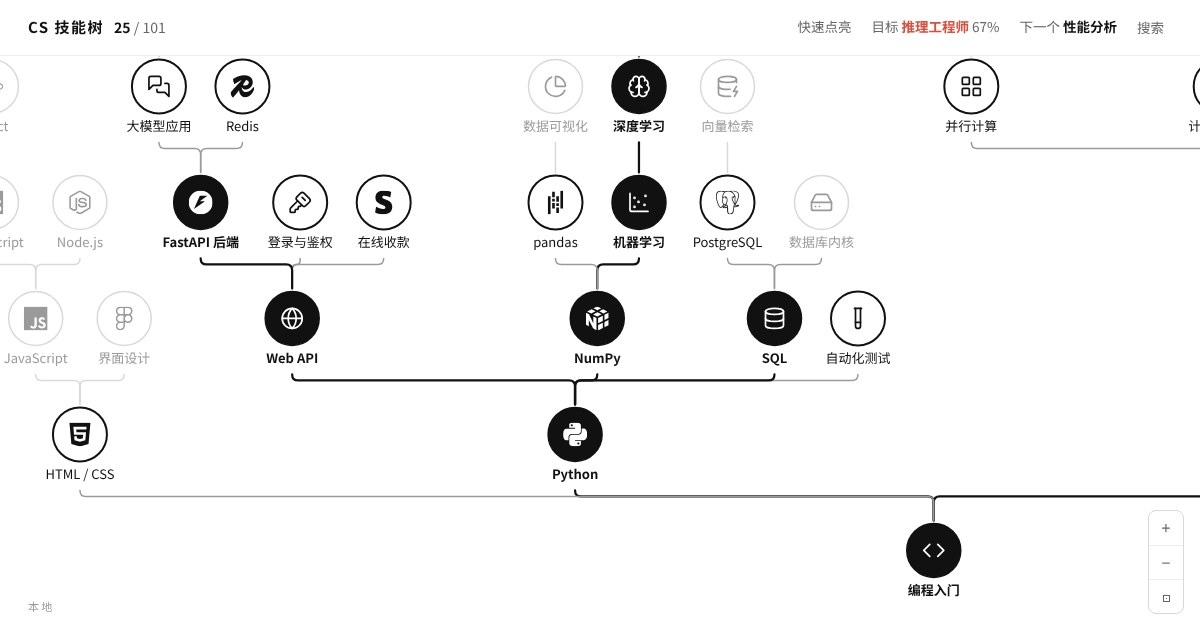
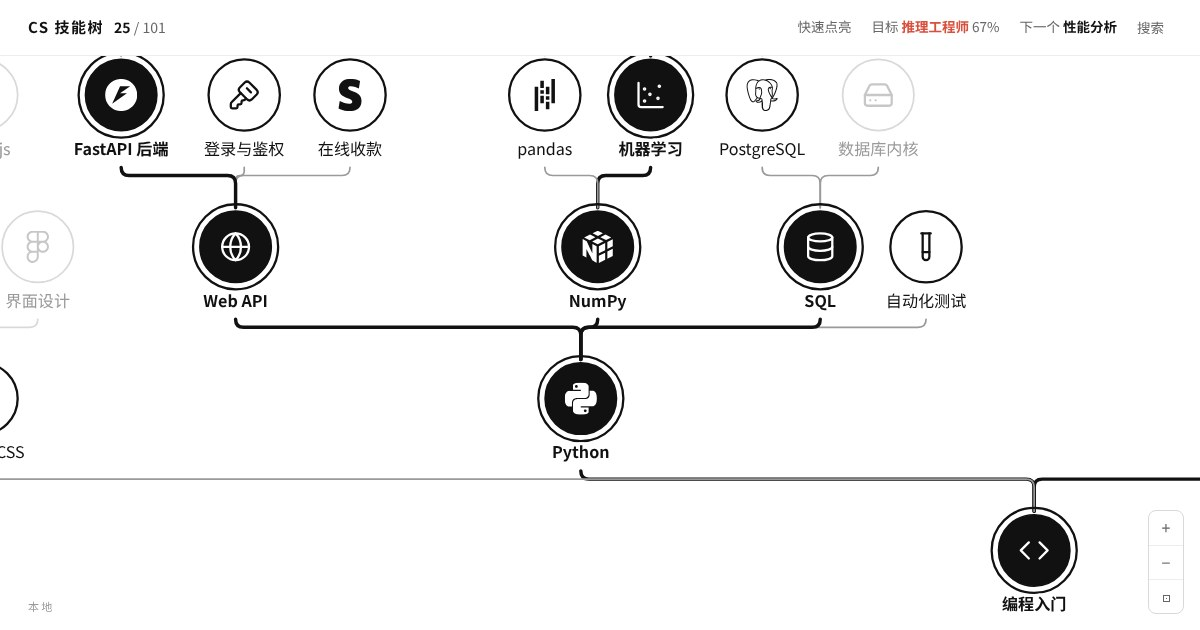
Space the starting row evenly, enlarge the tree, and redo the lit look
The three starting points (Linux, intro programming, calculus) now sit
on one evenly spaced row with the largest subtree in the middle. The
gaps are equalized by moving the side subtrees outward only, so no rows
collide; a test checks the spacing.

Everything is bigger: nodes are 62px across with 28px icons and 14px
labels, rows are 132px apart, and the page opens at 115% (85% on
phones).

Lit nodes get an outer ring around the solid disc, like an activated
skill slot. Lighting or unlocking a node plays a single ripple, lit
branches are thicker, available nodes show a hover fill, and locked
icons are fainter.

Claude-Session: https://claude.ai/code/session_01VcDYgFzowvD3W4KKBaHuKd

diff --git a/src/lib/webLayout.ts b/src/lib/webLayout.ts
@@ -2,7 +2,7 @@
 //
 //   - 每个技能只挂在它的“主前置”上（种子里前置的第一个）。画出来是一条条往上的链，只在关键节点分叉。
 //     其余前置不画线（会横穿整张图），选中时只让那些节点保持清楚，面板里列出来。
-//   - 最下面一排是起点（没有前置的技能），往上一排深一层。
+//   - 最下面一排是起点（没有前置的技能），往上一排深一层。最大的那棵子树放中间，起点之间等距，排成整齐的一排。
 //   - 列：子树按轮廓紧挨着排（每一层左右边界不重叠就行），父节点在第一个和最后一个孩子的正中间；
 //     只有一个孩子时和它对齐，链是直的。兄弟按领域排，AI 产品在左，AI Infra 在中间，底层系统和安全在右。
 //   - 方向排在最上面一排，从它挂的技能直直连上去。
@@ -11,14 +11,14 @@
 // 纯函数，坐标单位是像素。最下面一排 y = 0，往上 y 变小。
 import type { Tree } from './tree.ts'
 
-export const NODE_R = 27
+export const NODE_R = 31
 /** 两排之间多远 */
-export const ROW = 116
+export const ROW = 132
 /** 名字在节点下面多远（基线），和名字的底 */
-export const LABEL_Y = NODE_R + 18
-const LABEL_BOTTOM = NODE_R + 25
+export const LABEL_Y = NODE_R + 21
+const LABEL_BOTTOM = NODE_R + 28
 /** 同一排相邻两个节点的名字之间至少空多少 */
-const GAP = 24
+const GAP = 26
 /** 方向的名字大概多宽的一半 */
 const TIP_HALF = 64
 
@@ -54,9 +54,9 @@ export interface WebLayout {
 
 export const subNodeId = (subId: string) => `sub:${subId}`
 
-/** 名字的显示宽度：中文 13px，英文数字约 7.5px */
+/** 名字的显示宽度：中文 14px，英文数字约 8px */
 export function labelWidth(name: string): number {
-  return [...name].reduce((w, c) => w + (c.charCodeAt(0) > 0x2e80 ? 13 : 7.5), 0)
+  return [...name].reduce((w, c) => w + (c.charCodeAt(0) > 0x2e80 ? 14 : 8), 0)
 }
 
 const f = (n: number) => Math.round(n * 10) / 10
@@ -161,7 +161,10 @@ export function layoutWeb(tree: Tree): WebLayout {
     return out
   }
   // 几个起点也按轮廓排开
-  const roots = children.get('root')!
+  // 起点：最大的子树放中间，其余按原来的顺序左右交替放
+  const bySize = [...children.get('root')!].sort((a, b) => count.get(b)! - count.get(a)!)
+  const roots: string[] = []
+  bySize.forEach((r, i) => (i % 2 === 1 ? roots.unshift(r) : roots.push(r)))
   const rootX = new Map<string, number>()
   const all: Contour = new Map()
   for (const r of roots) {
@@ -177,6 +180,11 @@ export function layoutWeb(tree: Tree): WebLayout {
     rootX.set(r, x)
     merge(all, c, x)
   }
+  // 起点之间等距：把相邻起点的间距都拉到最大的那个，只往外挪，子树之间不会撞
+  const gaps = roots.slice(1).map((r, i) => rootX.get(r)! - rootX.get(roots[i])!)
+  const even = Math.max(0, ...gaps)
+  const mid = Math.floor(roots.length / 2)
+  roots.forEach((r, i) => rootX.set(r, rootX.get(roots[mid])! + (i - mid) * even))
 
   // ── 绝对坐标 ──
   const xs = new Map<string, number>()

diff --git a/src/styles.css b/src/styles.css
@@ -148,7 +148,7 @@ a {
 
 .edge.e-done {
   stroke: var(--ink);
-  stroke-width: 2.25;
+  stroke-width: 3;
 }
 
 .edge.e-path {
@@ -241,8 +241,8 @@ a {
 
 .node .glyph {
   display: flex;
-  width: 24px;
-  height: 24px;
+  width: 28px;
+  height: 28px;
   color: var(--ink-3);
   transition: color 0.3s var(--ease);
 }
@@ -250,7 +250,7 @@ a {
 /* 名字带一圈白边，枝条从下面穿过时不会和字搅在一起 */
 .node .lbl {
   fill: var(--ink-3);
-  font-size: 13px;
+  font-size: 14px;
   text-anchor: middle;
   paint-order: stroke;
   stroke: var(--paper);
@@ -303,10 +303,59 @@ a {
   fill: var(--goal);
 }
 
-.node.pulse .box {
+/* 点亮后外面那一圈：平时看不见，点亮了是一圈细黑线，像激活了的技能槽 */
+.node .ring {
+  fill: none;
+  stroke: transparent;
+  stroke-width: 2;
+  transition: stroke 0.3s var(--ease);
+}
+
+.node.s-done .ring {
+  stroke: var(--ink);
+}
+
+/* 能点亮的：悬停时底色变灰，提示“点我” */
+.node.s-available:hover .box {
+  fill: var(--wash);
+}
+
+/* 够不着的：图标再淡一点 */
+.node.s-locked .glyph {
+  opacity: 0.55;
+}
+
+.node.pulse .box,
+.node.pulse .ring {
   animation: pop 0.6s var(--ease) both;
   transform-box: fill-box;
   transform-origin: center;
+}
+
+/* 点亮或解锁的那一刻：一圈波纹往外扩散，只放一次 */
+.node .ripple {
+  fill: none;
+  stroke: var(--ink);
+  stroke-width: 2;
+  pointer-events: none;
+  transform-box: fill-box;
+  transform-origin: center;
+  animation: ripple 0.9s cubic-bezier(0.2, 0.7, 0.3, 1) both;
+}
+
+.node.s-available .ripple {
+  stroke: var(--ink-3);
+}
+
+@keyframes ripple {
+  from {
+    transform: scale(1);
+    opacity: 0.7;
+  }
+  to {
+    transform: scale(2);
+    opacity: 0;
+  }
 }
 
 @keyframes pop {

diff --git a/src/components/SkillTree.tsx b/src/components/SkillTree.tsx
@@ -61,13 +61,16 @@ const Node = memo(function Node({ id, x, y, name, icon, state, focused, relation
       onPointerEnter={() => onHover(id)}
       onPointerLeave={() => onHover(null)}
     >
+      {/* 点亮后外面多一圈：像游戏里激活了的技能槽 */}
+      <circle className="ring" r={NODE_R + 6} />
+      {pulse && <circle className="ripple" r={NODE_R} />}
       <circle className="box" r={NODE_R} />
-      <foreignObject x={-12} y={-12} width="24" height="24">
+      <foreignObject x={-14} y={-14} width="28" height="28">
         <div className="glyph">
-          <SkillGlyph icon={icon} size={24} />
+          <SkillGlyph icon={icon} size={28} />
         </div>
       </foreignObject>
-      {next && <path className="next-mark" d={`M-6,${-NODE_R - 13} L6,${-NODE_R - 13} L0,${-NODE_R - 6}Z`} />}
+      {next && <path className="next-mark" d={`M-7,${-NODE_R - 22} L7,${-NODE_R - 22} L0,${-NODE_R - 13}Z`} />}
       <text className="lbl" y={LABEL_Y}>{name}</text>
     </g>
   )
@@ -151,7 +154,7 @@ export function SkillTree() {
   /** 打开时：从最下面的起点看起，主线在屏幕中间，字看得清；往上拖或点“看全图”再看方向 */
   const home = useCallback((ms?: number) => {
     if (!size.w) return
-    const k = size.w < 700 ? 0.8 : 1
+    const k = size.w < 700 ? 0.85 : 1.15
     flyTo({ x: size.w / 2 - layout.home.x * k, y: size.h - (size.w < 700 ? 120 : 80) - layout.home.y * k, k }, ms)
   }, [layout, size, flyTo])
 

diff --git a/tests/webLayout.test.ts b/tests/webLayout.test.ts
@@ -73,3 +73,10 @@ test('主线在中间：AI Infra 在 AI 产品的右边、底层系统的左边'
   assert.ok(node('pytorch').x > node('react').x)
   assert.ok(node('pytorch').x < node('kernel').x)
 })
+
+test('起点排成整齐的一排：等距，最大的子树在中间', () => {
+  const roots = tree.roadmap.skills.filter((s) => !s.parent).map((s) => node(s.id)).sort((a, b) => a.x - b.x)
+  const gaps = roots.slice(1).map((r, i) => r.x - roots[i].x)
+  for (const g of gaps) assert.ok(Math.abs(g - gaps[0]) < 0.5, `起点间距不一样：${gaps.map((x) => x.toFixed(0)).join('、')}`)
+  assert.equal(roots[Math.floor(roots.length / 2)].id, 'cs61a')
+})

diff --git a/docs/ART.md b/docs/ART.md
@@ -22,7 +22,7 @@
 
 ## 节点
 
-直径 54 的圆，里面一个 24px 的图标，下面 13px 的名字。名字直接说它是什么（数据结构、操作系统、PyTorch），不写课号。
+直径 62 的圆，里面一个 28px 的图标，下面 14px 的名字。名字直接说它是什么（数据结构、操作系统、PyTorch），不写课号。
 **每个节点一个自己的图标**：语言、框架、工具用官方 logo（Simple Icons），其余用 Lucide 里意思最直白的那个。体检会拒绝两个节点共用图标。
 
 颗粒度：**能写进简历的一项扎实能力**。计算机核心课（数据结构、计算机系统、操作系统、计算机网络……）也是节点，链接指向公认最好的那门课。知识点（哈希表、虚拟内存）不单独成节点。
@@ -33,25 +33,25 @@
 | 状态 | 画法 |
 | --- | --- |
 | 够不着 | 浅灰圆框，浅灰图标和名字 |
-| 能点亮 | 黑框 2px，黑图标，黑名字 |
-| 已点亮 | 实心黑，白图标，名字加粗 |
+| 能点亮 | 黑框 2px，黑图标，黑名字；悬停时底色变浅灰 |
+| 已点亮 | 实心黑，白图标，名字加粗；外面再多一圈细黑线，像激活了的技能槽。点亮那一刻弹一下，一圈波纹往外扩散一次 |
 | 选中 / 悬停 | 框加粗到 3px；它的前置路线和它解锁的保持清楚，其余淡到 22% |
 | 目标里最该学的 | 圆上方一个朱砂小三角 |
 
 ## 结构
 
-- **从下往上长。** 最下面一排是起点：编程入门、微积分、Linux。往上一排深一层。
+- **从下往上长。** 最下面一排是起点：Linux、编程入门、微积分，等距排成一排，最大的那棵（编程入门）在中间。往上一排深一层。
 - **一列一列**：每个节点只画一根枝，连到它的主前置。所以画出来是一条条竖直的链，比如 Python → NumPy → 机器学习 → 深度学习 → PyTorch → Transformer → 从零实现 GPT → vLLM 推理 → 分布式推理。只有编程入门、Python、计算机系统这种关键节点才一分多。
 - **左右的顺序**：AI 产品在左，主线 AI Infra 在中间，底层系统和安全在右，数学、量化和工具在最右。
 - **其余前置不画线**（会横穿整张图）。悬停或选中一个技能时，它的全部前置和它解锁的保持清楚，其余变淡；面板里列出每个前置点亮了没有。
 - **最上面一排是方向**：一个菱形，上面是加粗的名字和进度，从它挂的技能一根点线直直连上去。点它，树上亮出它要学的全部技能，视图缩到正好装下这条路线。目标方向是朱砂色。
 - **枝条是直角折线**：从父节点顶上出发，往上到两排中间，横过去，再往上停在孩子名字的下面。拐角是小圆角。线永远不穿过字。已点亮之间的枝是黑的、粗一点；从已点亮长出去的是中灰；其余浅灰。
-- **打开时**不看全图：原大小，从最下面的起点看起，主线在屏幕中间；往上拖或点“看全图”再看方向。
+- **打开时**不看全图：放大到 115%（手机 85%），从最下面的起点看起，主线在屏幕中间；往上拖或点“看全图”再看方向。
 
 ## 字
 
 - Noto Sans SC，没有衬线。
-- 节点名 13px；方向名 14px 粗体。
+- 节点名 14px；方向名 14px 粗体。
 - 面板标题 24px 700；正文 14.5px；小标题 12px 字距 0.15em 灰色。
 
 ## 面板
